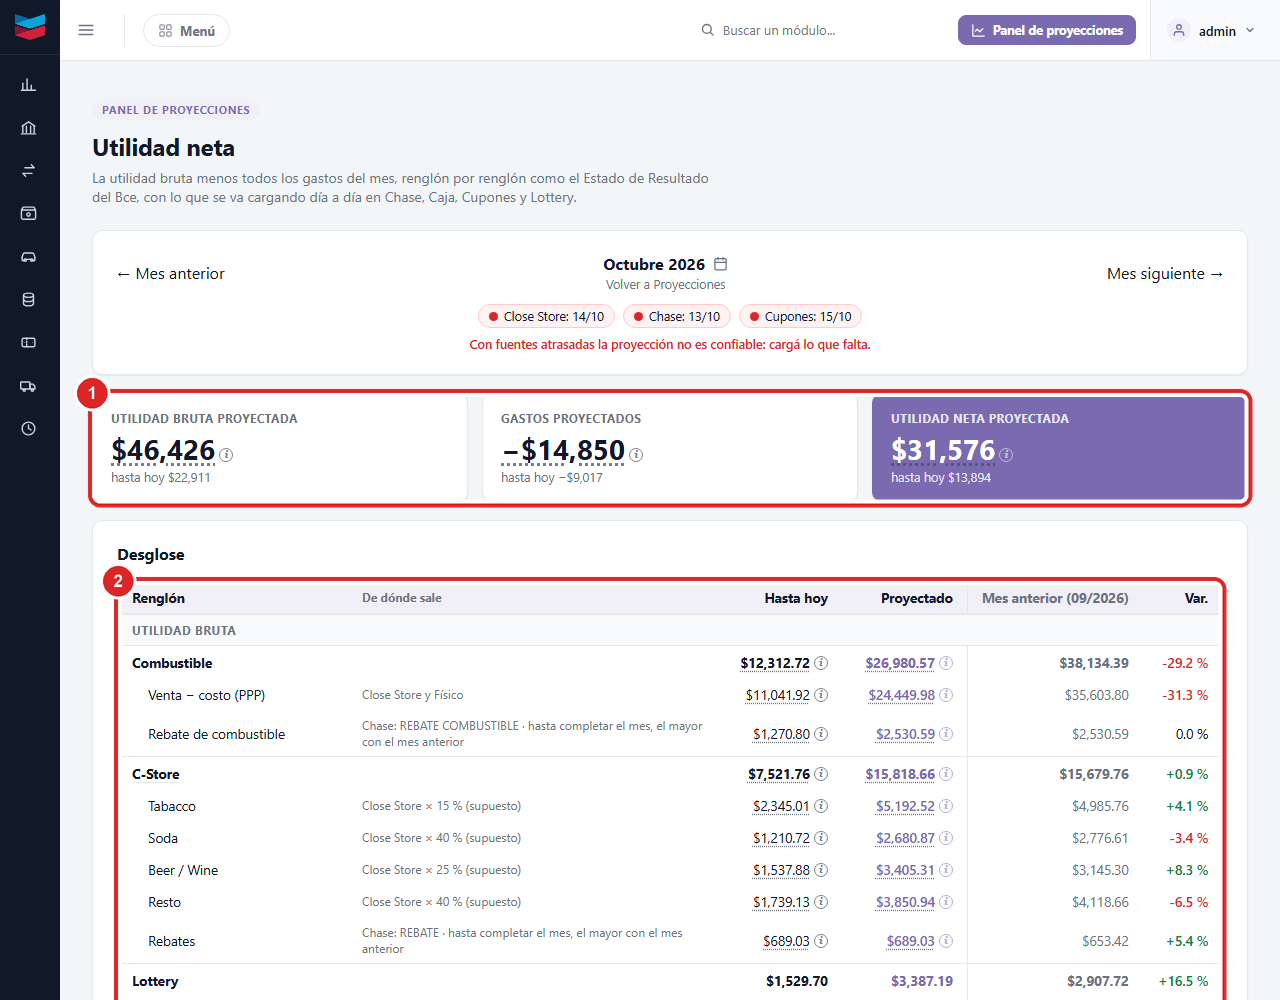
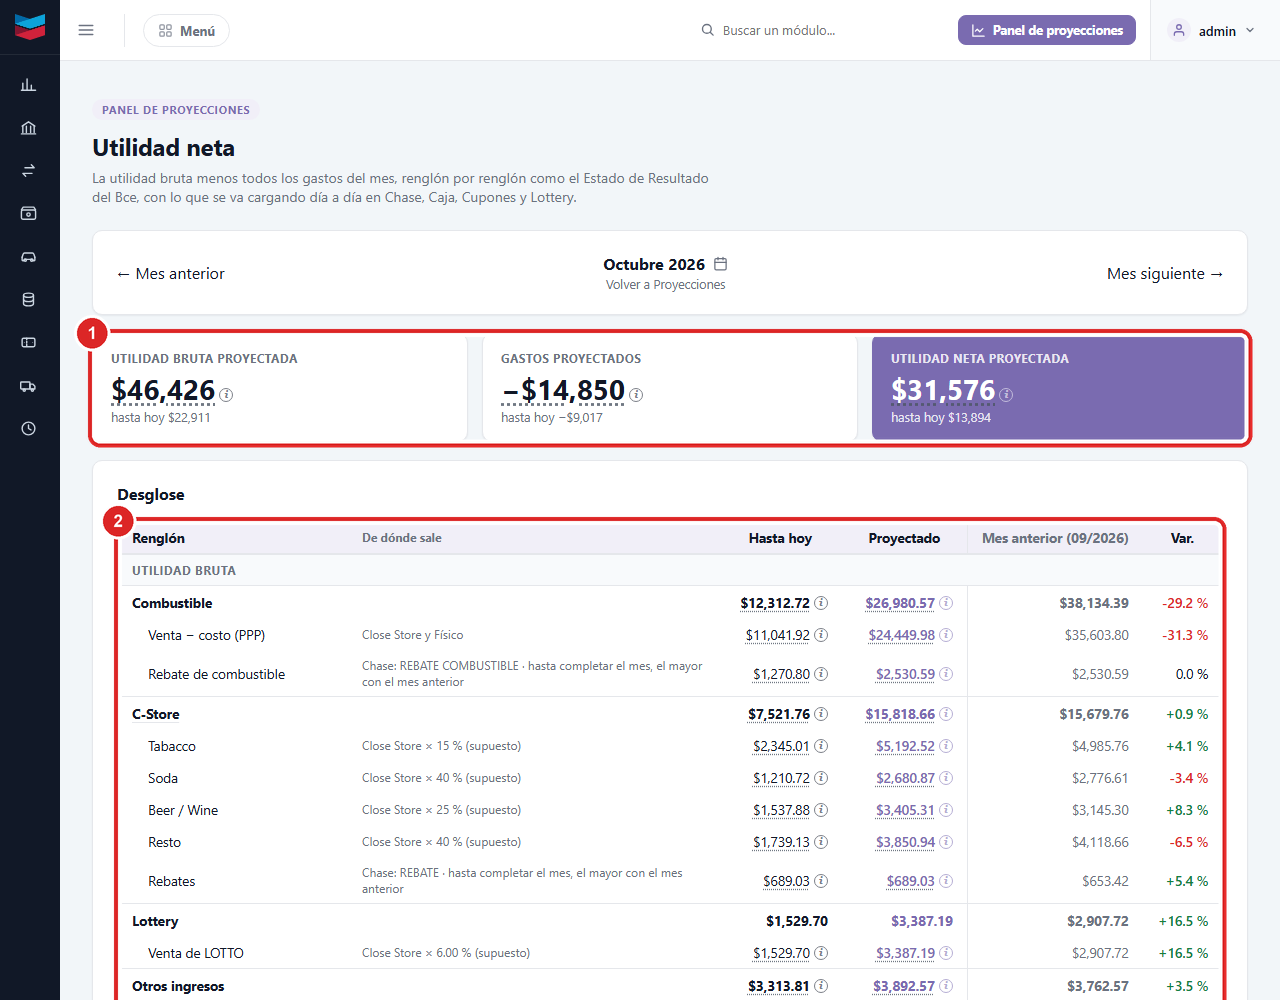
Proyecciones sin los carteles de fechas y títulos centrados; botones alineados en Ventas por Departamento, Caja y Ventas y Costos
- Proyecciones y Utilidad neta: sin los carteles de Close Store, Chase y Cupones; títulos de los cuadros centrados.
- Ventas por Departamento: "Buscar días para revisar", "Seleccionar todos" y "Eliminar seleccionados" alineados.
- Caja (Saldo y gastos), los filtros de Ventas y Costos y "Subir Balance": campos y botones del mismo alto y en línea.
- Manual con el texto de Chase y las capturas al día.

Changed region(s): [[0.0625, 0.31, 1.0, 1.0]]

diff --git a/templates/reportes_proyecciones.html b/templates/reportes_proyecciones.html
@@ -8,7 +8,9 @@
   .historial-table-wrap { overflow-x: auto; margin-top: 16px; border: 1px solid var(--border); border-radius: 10px; }
   .historial-table { width: 100%; border-collapse: separate; border-spacing: 0; font-size: 13.5px; }
   .historial-table th, .historial-table td { padding: 8px 14px; text-align: left; white-space: nowrap; }
-  .historial-table thead th { background: var(--accent-soft); font-weight: 700; border-bottom: 1px solid var(--border); vertical-align: bottom; }
+  .historial-table thead th { background: var(--accent-soft); font-weight: 700; border-bottom: 1px solid var(--border); vertical-align: middle; }
+  /* Títulos de los cuadros centrados (pedido del usuario, 2026-11-24); el de la primera columna, a la izquierda. */
+  .proy-num-table thead th:not(:first-child), .proy-bridge thead th:not(:first-child) { text-align: center !important; }
   .historial-table tbody tr:nth-child(even) { background: var(--surface-alt); }
   .reporte-totals-row td { font-weight: 700; background: var(--surface-alt); border-top: 2px solid var(--border); }
   .proy-num-table th:not(:first-child), .proy-num-table td:not(:first-child) { text-align: right; }
@@ -75,15 +77,7 @@
   .proy-actions { margin-top: 12px; }
   .proy-upload { display: flex; flex-wrap: wrap; align-items: center; gap: 10px; margin-top: 16px; padding-top: 14px; border-top: 1px solid var(--border); }
   .proy-upload .muted { font-size: 12.5px; }
-  /* Fechas de corte de cada fuente, con semáforo (2026-11-24). */
-  .proy-sources { display: flex; flex-wrap: wrap; gap: 8px; margin-top: 10px; font-size: 12.5px; }
-  .proy-source { display: inline-flex; align-items: center; gap: 6px; padding: 3px 10px; border-radius: 999px; border: 1px solid var(--border); background: var(--surface); }
-  .proy-source i { width: 9px; height: 9px; border-radius: 50%; background: var(--text-soft); }
-  .proy-source.ok i { background: var(--success); }
-  .proy-source.late i { background: #D97706; }
-  .proy-source.bad i { background: var(--error); }
-  .proy-source.bad { border-color: #FECACA; background: #FEF2F2; }
-  .proy-sources-note { flex-basis: 100%; color: var(--error); font-weight: 600; }
+  .proy-upload button { margin-top: 0; }
   .proy-pending-list { margin-top: 8px; }
   .proy-pending-list summary { font-weight: 600; }
   .proy-pending-list table { margin-top: 8px; border-collapse: collapse; font-size: 12.5px; font-variant-numeric: tabular-nums; }
@@ -154,15 +148,6 @@
       {% if p.last_day %}<span class="muted">(el último, {{ p.last_day.strftime('%d/%m') }})</span>{% endif %}
     </div>
     <div class="proy-days-bar"><div class="proy-days-bar-fill" style="width: {{ (p.days_loaded / p.days_in_month * 100) if p.days_in_month else 0 }}%;"></div></div>
-    {# Hasta qué día está cargada cada fuente, con semáforo (2026-11-24). #}
-    <div class="proy-sources">
-      {% for src in net.sources %}
-      <span class="proy-source {{ src.status or '' }}" title="{{ {'ok': 'Al día', 'late': 'Atrasada', 'bad': 'Muy atrasada o sin datos del mes'}.get(src.status, '') }}"><i></i>{{ src.name }}: {{ src.last.strftime('%d/%m') if src.last else 'sin datos' }}</span>
-      {% endfor %}
-      {% if net.sources|selectattr("status", "equalto", "bad")|list %}
-      <span class="proy-sources-note">Con fuentes atrasadas la proyección no es confiable: cargá lo que falta.</span>
-      {% endif %}
-    </div>
   </div>
 </div>
 

diff --git a/templates/proyecciones_neta.html b/templates/proyecciones_neta.html
@@ -8,7 +8,8 @@
   .historial-table-wrap { overflow-x: auto; margin-top: 4px; border: 1px solid var(--border); border-radius: 10px; }
   .historial-table { width: 100%; border-collapse: separate; border-spacing: 0; font-size: 13.5px; }
   .historial-table th, .historial-table td { padding: 7px 14px; text-align: left; white-space: nowrap; }
-  .historial-table thead th { background: var(--accent-soft); font-weight: 700; border-bottom: 1px solid var(--border); }
+  .historial-table thead th { background: var(--accent-soft); font-weight: 700; border-bottom: 1px solid var(--border); vertical-align: middle; }
+  .neta-table thead th:nth-child(n+3) { text-align: center !important; }
   .card > h2 { margin-bottom: 16px; }
 
   .neta-kpi-grid { display: grid; grid-template-columns: repeat(auto-fit, minmax(220px, 1fr)); gap: 14px; margin-bottom: 18px; }
@@ -30,14 +31,6 @@
   .neta-net td { font-weight: 700; font-size: 15px; background: var(--accent-soft); border-top: 2px solid var(--accent); }
   .neta-note { font-size: 12.5px; margin: 12px 0 0; line-height: 1.5; }
   .neta-warn { margin: 0 0 12px; color: var(--error); font-size: 13px; }
-  .proy-sources { display: flex; flex-wrap: wrap; justify-content: center; gap: 8px; margin-top: 12px; font-size: 12.5px; }
-  .proy-source { display: inline-flex; align-items: center; gap: 6px; padding: 3px 10px; border-radius: 999px; border: 1px solid var(--border); background: var(--surface); }
-  .proy-source i { width: 9px; height: 9px; border-radius: 50%; background: var(--text-soft); }
-  .proy-source.ok i { background: var(--success); }
-  .proy-source.late i { background: #D97706; }
-  .proy-source.bad i { background: var(--error); }
-  .proy-source.bad { border-color: #FECACA; background: #FEF2F2; }
-  .proy-sources-note { flex-basis: 100%; text-align: center; color: var(--error); font-weight: 600; }
   .neta-prev { color: var(--text-soft); border-left: 1px solid var(--border); }
   .neta-up { color: var(--success); font-weight: 600; }
   .neta-down { color: var(--error); font-weight: 600; }
@@ -76,14 +69,7 @@
     </div>
     <a href="{{ url_for('proyecciones_utilidad_neta', year=next_year, month=next_month) }}" class="btn-secondary historial-nav-btn">Mes siguiente &rarr;</a>
   </div>
-  <div class="proy-sources">
-    {% for src in n.sources %}
-    <span class="proy-source {{ src.status or '' }}"><i></i>{{ src.name }}: {{ src.last.strftime('%d/%m') if src.last else 'sin datos' }}</span>
-    {% endfor %}
-    {% if n.sources|selectattr("status", "equalto", "bad")|list %}
-    <span class="proy-sources-note">Con fuentes atrasadas la proyección no es confiable: cargá lo que falta.</span>
-    {% endif %}
-  </div>
+  
 </div>
 
 {# El cartel con la cuenta al pasar el cursor (data-formula, ver base.html). #}

diff --git a/templates/manual.html b/templates/manual.html
@@ -400,7 +400,7 @@
         <li><span class="n">1</span><p>Elegí el extracto (CSV o Excel, como lo baja la banca online).</p></li>
         <li><span class="n">2</span><p><b>Guardar</b>. Se puede volver a subir el mismo extracto: no duplica.</p></li>
         <li><span class="n">3</span><p>Motor de Reglas: palabra clave → Detalle. Sirve para lo que quedó sin categoría.</p></li>
-        <li><span class="n">4</span><p><b>Ver lo ya guardado</b>: categorizá a mano lo que falte. Lo manual no se pisa.</p></li>
+        <li><span class="n">4</span><p><b>Ver lo ya guardado</b>: categorizá a mano lo que falte, eligiendo la cuenta de la lista (las que se usaron en Chase en el año). Para una cuenta nueva, un administrador elige <b>+ Cuenta nueva</b>: pone el nombre y la palabra clave, y queda creada la regla. Lo manual no se pisa. Los pagos de J.H. quedan como "EFT RCV-" y, cuando se carga su EFT, pasan solos a "EFT RCV-23174" (con el número del EFT).</p></li>
       </ol>
       <h3>Cheques <span class="manual-where">barra lateral → Chase Bank → Cheques</span></h3>
       {{ shot('cheques', 'Cheques') }}
@@ -759,7 +759,7 @@
       <p class="manual-lede">Lo vendido hasta hoy y lo proyectado a fin de mes, como la hoja Store Info del Excel Cierre con los días reales del mes.</p>
       {{ shot('proyecciones', 'Proyecciones') }}
       <ol class="manual-steps">
-        <li><span class="n">1</span><p>Elegí el mes. La barra dice cuántos días tienen el Close Store cargado, y abajo hasta qué día está cargado Close Store, Chase y Cupones: verde al día, ámbar atrasado, rojo muy atrasado (con una fuente en rojo la proyección no es confiable). Si hay débitos de Chase sin categoría, un aviso dice cuánto suman (con <b>Ver los movimientos</b>, la lista): no entran en la utilidad neta hasta categorizarlos.</p></li>
+        <li><span class="n">1</span><p>Elegí el mes. La barra dice cuántos días tienen el Close Store cargado. Si hay débitos de Chase sin categoría, un aviso dice cuánto suman (con <b>Ver los movimientos</b>, la lista): no entran en la utilidad neta hasta categorizarlos.</p></li>
         <li><span class="n">2</span><p><b>Utilidad neta proyectada</b>. Tocala (Ver desglose) para el detalle.</p></li>
         <li><span class="n">3</span><p>La venta proyectada de combustible y del C-Store.</p></li>
         <li><span class="n">4</span><p><b>De la venta a la utilidad neta</b>: el margen de ventas (combustible + C-Store con Lottery) + otros ingresos − fees de tarjeta = utilidad bruta − gastos = utilidad neta.</p></li>

diff --git a/templates/reporte_historial.html b/templates/reporte_historial.html
@@ -37,13 +37,16 @@
   .rev-flag-static { margin: 0 4px 0 0; }
   .rev-scan-form { display: flex; align-items: center; gap: 12px; flex-wrap: wrap; margin: 0 0 14px; font-size: 12.5px; }
   .rev-scan-form .rev-flag { vertical-align: middle; }
+  .rev-scan-form button { margin-top: 0; flex-shrink: 0; }
+  .rev-scan-form > .muted { flex: 1 1 320px; }
   .rev-legend { margin: 10px 0 0; font-size: 12.5px; }
   .historial-col-check { width: 28px; text-align: center; }
   .dept-delete-toolbar {
     display: flex; align-items: center; justify-content: space-between; gap: 12px;
     margin-top: 14px; flex-wrap: wrap;
   }
-  .dept-delete-selectall { display: flex; align-items: center; gap: 6px; font-size: 12.5px; }
+  label.dept-delete-selectall { display: flex; align-items: center; gap: 8px; font-size: 13px; margin: 0; text-transform: none; letter-spacing: normal; }
+  label.dept-delete-selectall input { margin: 0; }
   .dept-delete-toolbar button { margin-top: 0; }
   .historial-badge {
     display: inline-block;

diff --git a/templates/carga_datos_caja_historial.html b/templates/carga_datos_caja_historial.html
@@ -60,6 +60,11 @@
   .caja-saldo-form > div { display: flex; flex-direction: column; gap: 4px; }
   .caja-saldo-form input[type=number] { padding: 6px 8px; width: 160px; }
   .caja-saldo-hint { font-size: 11px; }
+  /* Campos y botón del mismo alto y alineados abajo (2026-11-24). */
+  :is(.caja-saldo-form, .caja-expense-form) input { height: 38px; box-sizing: border-box; margin: 0; }
+  :is(.caja-saldo-form, .caja-expense-form) label.muted { margin: 0; }
+  :is(.caja-saldo-form, .caja-expense-form) > button { margin: 0; height: 38px; padding-top: 0; padding-bottom: 0; }
+  .caja-saldo-form > .caja-saldo-hint { align-self: center; }
 
   .caja-expense-form { display: flex; flex-wrap: wrap; align-items: flex-end; gap: 16px; }
   .caja-expense-form > div { display: flex; flex-direction: column; gap: 4px; }

diff --git a/templates/controles_ventas_costos.html b/templates/controles_ventas_costos.html
@@ -17,7 +17,7 @@
   .vc-count strong { color: var(--text); }
   .vc-pills { display: flex; gap: 8px; flex-wrap: wrap; margin-top: 14px; }
   .vc-pill { display: inline-flex; align-items: center; gap: 6px; padding: 5px 12px; border-radius: 999px; border: 1px solid var(--border);
-             background: var(--surface); color: var(--text); font: inherit; font-size: 12.5px; font-weight: 600; cursor: default; }
+             background: var(--surface); color: var(--text); font: inherit; font-size: 12.5px; font-weight: 600; cursor: default; margin: 0; }
   .vc-pill b { font-variant-numeric: tabular-nums; color: var(--text-soft); font-weight: 700; }
   .vc-pill:hover { border-color: var(--accent); }
   .vc-pill.active { border-color: var(--accent); background: var(--accent-soft); }
